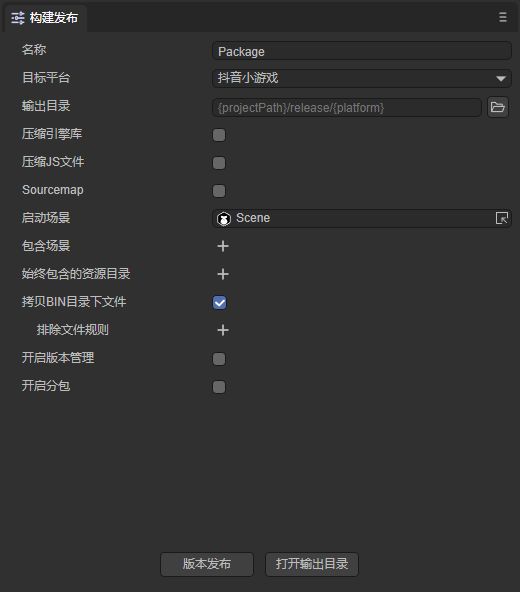
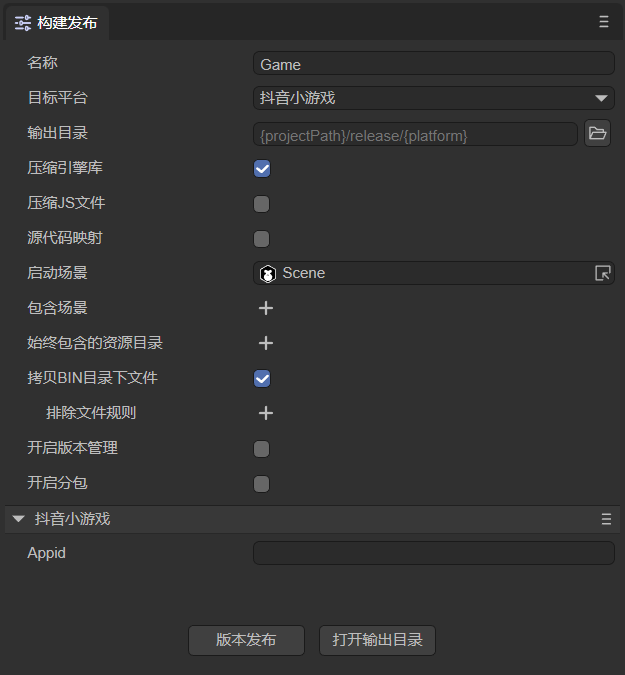
微信与抖音小游戏的appid

diff --git a/released/miniGame/wechat/readme.md b/released/miniGame/wechat/readme.md
@@ -26,9 +26,11 @@
 
 点击构建发布，在弹出的界面里，选择发布平台为微信小游戏。如图2-1所示：
 
-![2-1](img/2-1.png)
+<img src="img/2-1.png" alt="2-1" style="zoom:80%;" />
 
 （图2-1）
+
+`Appid`：用户可以直接在发布的时候填写微信小游戏的AppID。
 
 `生成开放数据域工程模板`：一般用来显示好友排行榜，发布完成后会生成openDataContext目录。（详见第五节）
 

diff --git a/released/miniGame/byteDance/readme.md b/released/miniGame/byteDance/readme.md
@@ -26,9 +26,11 @@
 
 点击构建项目，在弹出的构建项目界面里，选择发布平台为`抖音小游戏`。如图2-1所示：
 
-![2-1](img/2-1.png)
+<img src="img/2-1.png" alt="2-1" style="zoom:80%;" />
 
 （图2-1）
+
+`Appid`：用户可以直接在发布的时候填写抖音小游戏的AppID。
 
 
 
